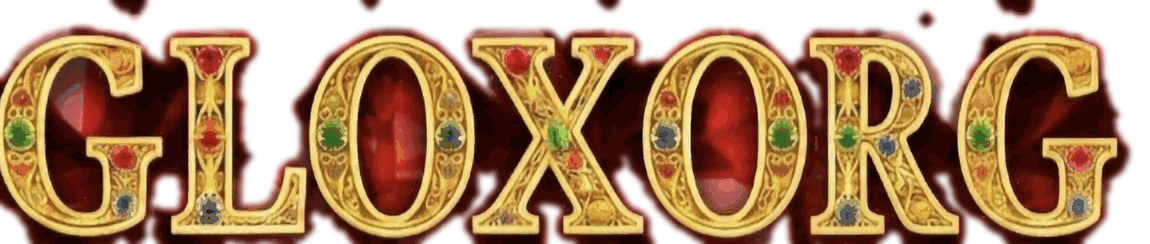
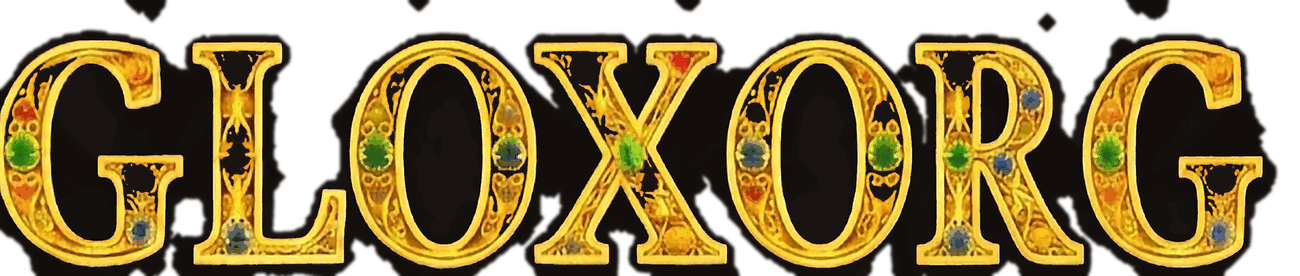
B123: Üstbar renk ataması değişti (müşteri=kırmızı, pro=mavi, altın=yeşil) + harf içi koyu
Yeni atama: müşteri→yakut(kırmızı), pro→mavi(safir), altın→yeşil(zümrüt).
Harf içi artık zemin rengiyle AYNI değil: tek wordmark, koyu nötr iç + altın
nakış + renkli taşlar → her renkli zeminde net belli, monoton değil.
gloxWordmarkMavi/Yesil kaldırıldı. sw.js B122→B123.

Claude-Session: https://claude.ai/code/session_01NL5UFbXL2aH6562eJk5V7E

diff --git a/src/buildGecmisi.js b/src/buildGecmisi.js
@@ -2,6 +2,7 @@
 // Her deploy'da AKTİF satırın: build +1, tarih, saat, aciklama güncelle.
 // Yeni A-serisine geçince başına yeni satır ekle — eski satırlar silinmez.
 export const buildGecmisi = [
+  { surum:'A11', build:123, dosya:'USTBAR RENK ATAMASI DEGISTI + HARF ICI KOYU (zemin rengiyle AYNI DEGIL) (kullanici). (1) YENI ATAMA: Musteri=KIRMIZI(yakut), Profesyonel=MAVI(safir), Altin/Tam uye=YESIL(zumrut). uyeZemin: altin->yesil, pro->mavi, musteri->yakut (eskiden musteri=mavi/pro=kirmizi idi, takas edildi). (2) HARF ICI ARTIK ZEMIN RENGINDE DEGIL: onceki surumde harf ici zemin rengiyle ayni pirlanta idi (kirmizi zeminde kirmizi ic) -> kullanici "harfte zemin renginde pirlanta olmayacak" dedi. Artik TEK wordmark: harf ici KOYU NOTR (kahve-siyah), uzerinde altin nakis + RENKLI taslar -> her renkli zeminde (kirmizi/mavi/yesil) harfler NET belli olur, monoton degil. gloxWordmarkMavi/Yesil.png kaldirildi, tek gloxWordmark.png. Altin sari-altin+net (B122 iyilestirmeleri korundu). NOT: ayarlardaki uyelik kartlari/renkleri (kullanici istegi) SIRADAKI adim. sw.js B122->B123.', tarih:'2026-07-06', saat:'18:40', aciklama:'Üstbar: müşteri=kırmızı, pro=mavi, altın=yeşil; harf içi artık zemin rengiyle aynı değil (koyu, renkli taşlı) → her zeminde belli. Almanya saati.', tarih2:'' },
   { surum:'A11', build:122, dosya:'MUSTERI/ALTIN GLOXORG: ZENGIN SARI-ALTIN + NET + DUZEN AYARI (kullanici: "harfler soluk/beyaza kaciyor, ic renk dagilmis, kenar belirsiz; GLOXORG az buyut, alt yazi cok buyuk ufalt"). (1) ALTIN artik ZENGIN SARI: harflerde parlak altin piksellerde MAVI kanal %22 azaltildi -> beyaza kacmiyor, tam sari-altin; renk doygunlugu +%32 (tas+altin canli). (2) NET: unsharp guclendirildi (radius2.2/165), alpha kenar feather 7->3.5 (daha net kesim). (3) IC RENK SAKIN: harf ici gercek pirlanta dokusu daha uniform (blur 4) + daha koyu (parlaklik 0.72) -> dagilmis degil, altin POP eder. (4) GLOXORG gorseli biraz buyutuldu (27->31px tel), alt yazi Dunyanin Platformu kucultuldu (11.5->10px). Kirmizi(pro) degismedi. sw.js B121->B122.', tarih:'2026-07-06', saat:'18:05', aciklama:'Müşteri/altın GLOXORG: zengin sarı-altın (beyaza kaçmıyor) + net kesim + iç sakin; yazı biraz büyüdü, alt yazı küçüldü. Almanya saati.', tarih2:'' },
   { surum:'A11', build:121, dosya:'MUSTERI/ALTIN HARF ICI GERCEK PIRLANTA + USTBAR DUZEN (kullanici: "ici mavi karanlik, dunyanin platformu soluk, GLOXORG buyuk, ikonlar ufak"). (1) HARF ICI: B120 de ic zemin koyu maviye/yesile BOYANMISTI (karanlik gorunuyordu); artik harflerin ic zemini GERCEK mavi/yesil pirlanta dokusu (maviZemin/yesilZemin hafif blur+koyultma) ile dolduruldu -> pro daki gibi PARLAK, canli, zeminle uyumlu; renkli taslar korundu. (2) GLOXORG gorseli KUCULTULDU (ana-logo-img 34->27px telefon, 54->44 tablet, 74->60 pc). (3) IKONLAR BUYUTULDU: menu/zil svg 23->28, ayi(site-ai) 34->42 (pusula 28->34/23->30), profil 26->33px. (4) ALT YAZI "Dunyanin Platformu" belirginlesti: renk soluk #9c8f6b -> parlak #ffe6ac + kalin + guclu golge (pirlanta zeminde okunur). Kirmizi(pro) wordmark degismedi (kullanici begendi). sw.js B120->B121.', tarih:'2026-07-06', saat:'17:40', aciklama:'Müşteri/altın harf içi gerçek parlak pırlanta (karanlık değil) + GLOXORG küçültüldü, ikonlar büyütüldü, alt yazı belirginleşti. Almanya saati.', tarih2:'' },
   { surum:'A11', build:120, dosya:'MUSTERI/ALTIN GLOXORG HARFLERI ARTIK RENKLI (pro gibi) — sadece ZEMIN boyandi, TASLAR renkli kaldi (kullanici: "harfler renksiz oldu, kirmizi uye gibi renkli ve guzel olsun"). B119 da harf ici TUM kirmizi (zemin+taslar) maviye/yesile boyanmisti -> taslar renksiz/tek-renk gorunuyordu. DUZELTME: reddish bolgeler baglantili-bilesen ile ayrildi; SADECE BUYUK kirmizi alanlar (ic zemin+halo, alan>2600px) temaya boyandi; KUCUK kirmizi lekeler (kirmizi TASLAR) RENKLI birakildi. Boylece musteri(mavi)/altin(yesil) harfleri pro gibi COK RENKLI (kirmizi/yesil/mavi/turuncu tas) ama ic zemin mavi/yesil pirlantayla uyumlu. src/gloxWordmarkMavi.png + gloxWordmarkYesil.png guncellendi. Kod/zemin ayni. sw.js B119->B120.', tarih:'2026-07-06', saat:'17:00', aciklama:'Müşteri/altın GLOXORG harfleri artık pro gibi renkli (taşlar korundu, sadece iç zemin maviye/yeşile boyandı). Almanya saati.', tarih2:'' },

diff --git a/src/Anasayfa.js b/src/Anasayfa.js
@@ -21,9 +21,7 @@ import DilSecici from "./DilSecici";
 import yakutZemin from "./yakutZemin.jpg"; // PRO (kırmızı) üye üstbar alt zemini = yakut pırlanta (3 aynalı)
 import maviZemin from "./maviZemin.jpg";   // MÜŞTERİ (beyaz/mavi üye) üstbar alt zemini = mavi pırlanta (3 aynalı)
 import yesilZemin from "./yesilZemin.jpg"; // ALTIN PIRLANTA üyeliği (max) üstbar alt zemini = yeşil pırlanta (3 aynalı)
-import gloxWordmark from "./gloxWordmark.png";           // PRO: nakışlı GLOXORG — yakut zeminli (kırmızı iç)
-import gloxWordmarkMavi from "./gloxWordmarkMavi.png";   // MÜŞTERİ: aynı temiz dolu harfler, içi MAVİ (mavi pırlantaya uyumlu)
-import gloxWordmarkYesil from "./gloxWordmarkYesil.png"; // ALTIN: aynı temiz dolu harfler, içi YEŞİL (yeşil pırlantaya uyumlu)
+import gloxWordmark from "./gloxWordmark.png";           // TEK nakışlı GLOXORG — KOYU içli (zemin rengiyle aynı değil) → her renkli pırlantada belli
 import "./Anasayfa.css";
 
 // Ayarlar konum haritası için altın damla pin (resim gerektirmez)
@@ -1865,10 +1863,10 @@ export default function Anasayfa({ pro = false }) {
   const [meslekFiltre, setMeslekFiltre] = useState(""); // meslek arama kutusu
   const proUye = !!(profilBilgi && profilBilgi.tip === "profesyonel"); // kırmızı pırlanta + PRO ÜYE
   const uyelik = (profilBilgi && profilBilgi.uyelik) || ""; // "" | "kirmizi" (GLOXORG Kırmızı Pırlanta) | "altin" (GLOXORG Altın Pırlanta) — günlük AI sınırını kaldırır
-  // ÜSTBAR PIRLANTA TEMASI: Altın Pırlanta üyeliği (max) = YEŞİL; Profesyonel = YAKUT (kırmızı); Müşteri = MAVİ.
+  // ÜSTBAR PIRLANTA TEMASI (kullanıcı): Müşteri = KIRMIZI (yakut); Profesyonel = MAVİ (safir); Altın/Tam üye = YEŞİL (zümrüt).
   const uyeTema = uyelik === "altin" ? "altin" : (proUye ? "pro" : "musteri");
-  const uyeZemin = uyeTema === "altin" ? yesilZemin : uyeTema === "pro" ? yakutZemin : maviZemin;
-  const uyeWordmark = uyeTema === "altin" ? gloxWordmarkYesil : uyeTema === "pro" ? gloxWordmark : gloxWordmarkMavi; // temiz DOLU harfler; içi temaya göre kırmızı/mavi/yeşil
+  const uyeZemin = uyeTema === "altin" ? yesilZemin : uyeTema === "pro" ? maviZemin : yakutZemin;
+  const uyeWordmark = gloxWordmark; // TEK yazı (koyu içli) — zemin rengiyle aynı değil, her zeminde belli
   // ÇOKLU meslek: pro.meslekler (dizi) ana kaynak; geriye uyum için pro.meslek = ilk meslek.
   // pro.meslekler ANA kaynak; yoksa pro.meslek; yoksa ÜST düzey meslekler/meslek (eski ayarMeslekSec kayıtları için geriye uyum)
   const proMeslekDizi = (profilBilgi && profilBilgi.pro && Array.isArray(profilBilgi.pro.meslekler) && profilBilgi.pro.meslekler.length)

diff --git a/public/sw.js b/public/sw.js
@@ -1,7 +1,7 @@
 /* GLOXORG servis çalışanı — bildirim göstermek için (Android Chrome new Notification() desteklemez,
    ServiceWorkerRegistration.showNotification() gerekir). Tam ekran/arka plan sekmede bildirim çıkar.
    SW_SURUM: her yayında ARTAR → tarayıcı yeni sw.js farkını görüp yeni sürümü kurar (eski önbellekte takılmaz). */
-const SW_SURUM = "B122";
+const SW_SURUM = "B123";
 self.addEventListener("install", (e) => { self.skipWaiting(); });
 self.addEventListener("activate", (e) => { e.waitUntil((async () => {
   // Eski onbellekleri temizle (kullanici bir daha ESKI surumde takilmasin)
